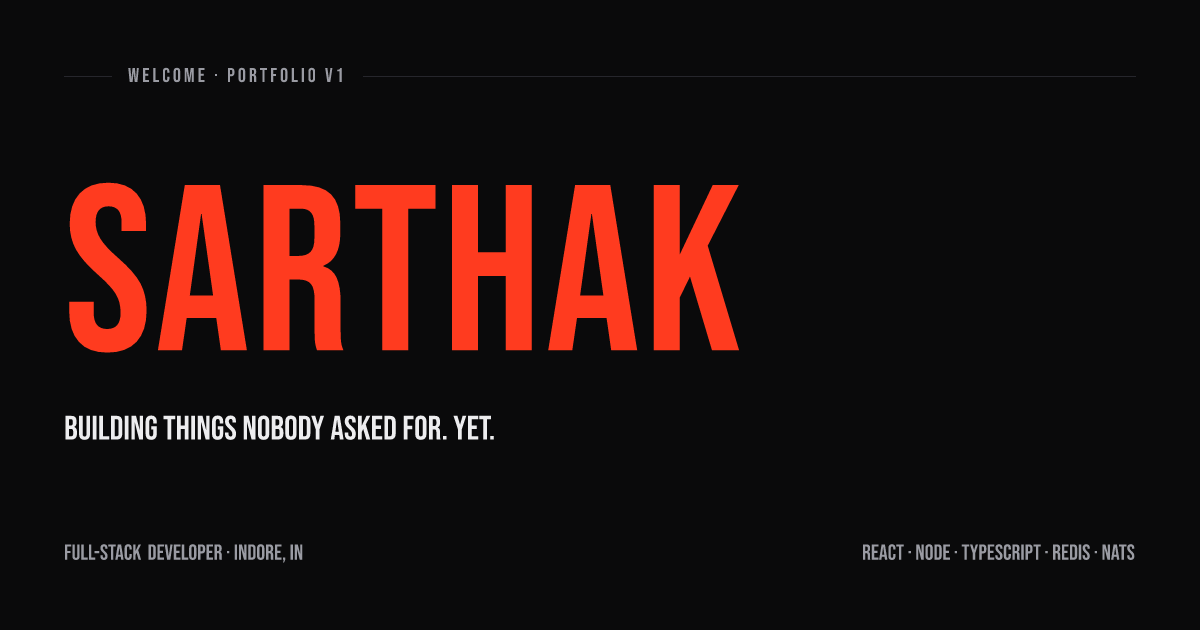
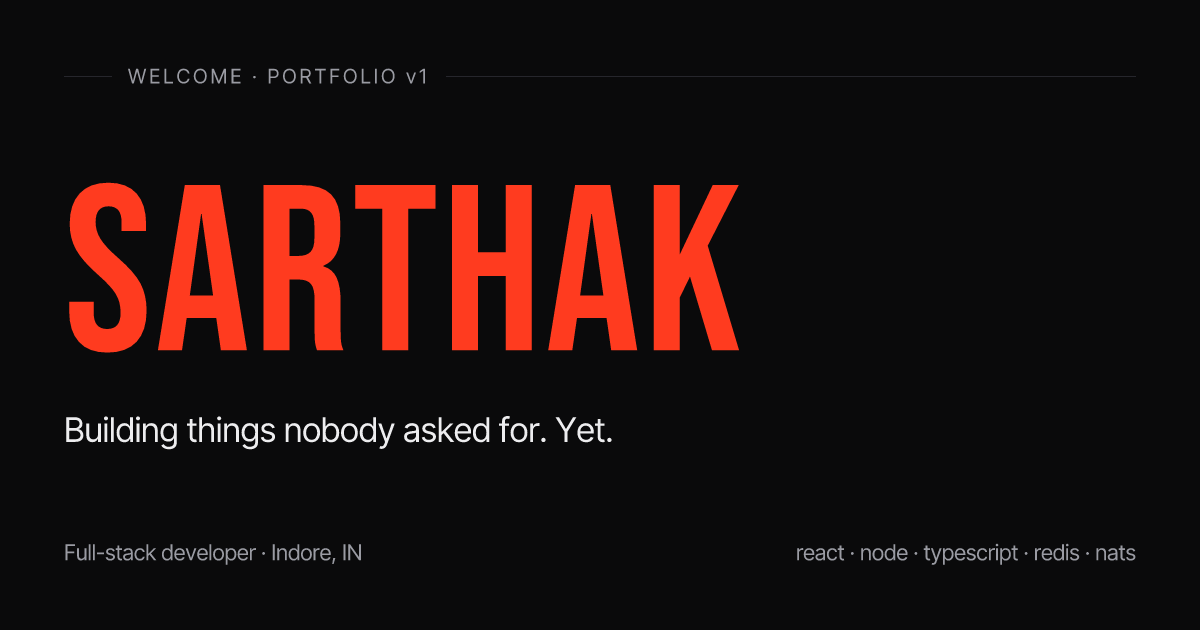
Update portfolio

diff --git a/scripts/banner.ts b/scripts/banner.ts
@@ -1,0 +1,182 @@
+/**
+ * Renders .github/profile/banner.png (1600×560) for the GitHub README, using the same
+ * tokens and fonts as the site. Run: npm run banner
+ */
+import satori from 'satori'
+import { Resvg } from '@resvg/resvg-js'
+import { readFile, writeFile, mkdir } from 'node:fs/promises'
+import { createRequire } from 'node:module'
+import path from 'node:path'
+
+type Node = Parameters<typeof satori>[0]
+const require = createRequire(import.meta.url)
+
+const BG = '#0a0a0b'
+const BG2 = '#111114'
+const LINE = '#26262c'
+const ACCENT = '#ff3b1f'
+const GOLD = '#f5b942'
+const TEXT = '#ededef'
+const MUTED = '#9a9ba3'
+const DIM = '#85868f'
+const OK = '#3ddc84'
+
+const font = (p: string) => readFile(require.resolve(p))
+
+async function main() {
+  const [bebas, inter, mono] = await Promise.all([
+    font('@fontsource/bebas-neue/files/bebas-neue-latin-400-normal.woff'),
+    font('@fontsource/inter-tight/files/inter-tight-latin-400-normal.woff'),
+    font('@fontsource/jetbrains-mono/files/jetbrains-mono-latin-400-normal.woff'),
+  ])
+  const fonts = [
+    { name: 'Bebas Neue', data: bebas, weight: 400 as const, style: 'normal' as const },
+    { name: 'Inter Tight', data: inter, weight: 400 as const, style: 'normal' as const },
+    { name: 'JetBrains Mono', data: mono, weight: 400 as const, style: 'normal' as const },
+  ]
+
+  const line = (k: string, v: string, color = TEXT) => ({
+    type: 'div',
+    props: {
+      style: { display: 'flex', gap: 0, fontSize: 17, lineHeight: 1.7 },
+      children: [
+        { type: 'span', props: { style: { color: k.startsWith('$') ? TEXT : DIM }, children: k } },
+        { type: 'span', props: { style: { color }, children: v } },
+      ],
+    },
+  })
+
+  const svg = await satori(
+    {
+      type: 'div',
+      props: {
+        style: {
+          width: 1600,
+          height: 560,
+          display: 'flex',
+          background: BG,
+          color: TEXT,
+          fontFamily: 'Inter Tight',
+          position: 'relative',
+        },
+        children: [
+          // left: wordmark + tagline
+          {
+            type: 'div',
+            props: {
+              style: { display: 'flex', flexDirection: 'column', justifyContent: 'space-between', padding: '56px 0 56px 72px', width: 960 },
+              children: [
+                {
+                  type: 'div',
+                  props: {
+                    style: { display: 'flex', alignItems: 'center', gap: 16, color: DIM, fontFamily: 'JetBrains Mono', fontSize: 15, letterSpacing: 3 },
+                    children: [
+                      { type: 'div', props: { style: { height: 1, width: 40, background: LINE } } },
+                      { type: 'div', props: { children: 'GITHUB.COM/SARTHA555K' } },
+                      { type: 'div', props: { style: { height: 1, width: 220, background: LINE } } },
+                    ],
+                  },
+                },
+                {
+                  type: 'div',
+                  props: {
+                    style: { display: 'flex', flexDirection: 'column' },
+                    children: [
+                      { type: 'div', props: { style: { fontFamily: 'Bebas Neue', fontSize: 250, lineHeight: 0.86, letterSpacing: 4, color: ACCENT }, children: 'SARTHAK' } },
+                      { type: 'div', props: { style: { marginTop: 22, fontSize: 30, color: TEXT }, children: 'Building things nobody asked for. Yet.' } },
+                    ],
+                  },
+                },
+                {
+                  type: 'div',
+                  props: {
+                    style: { display: 'flex', gap: 28, color: MUTED, fontFamily: 'JetBrains Mono', fontSize: 15 },
+                    children: [
+                      { type: 'div', props: { children: 'react 19' } },
+                      { type: 'div', props: { children: 'typescript' } },
+                      { type: 'div', props: { children: 'vite 6' } },
+                      { type: 'div', props: { children: 'gsap' } },
+                      { type: 'div', props: { children: 'lenis' } },
+                      { type: 'div', props: { children: 'tailwind v4' } },
+                    ],
+                  },
+                },
+              ],
+            },
+          },
+          // right: terminal card
+          {
+            type: 'div',
+            props: {
+              style: {
+                position: 'absolute',
+                right: 72,
+                top: 96,
+                width: 520,
+                display: 'flex',
+                flexDirection: 'column',
+                background: BG2,
+                border: `1px solid ${LINE}`,
+                borderRadius: 14,
+                overflow: 'hidden',
+                fontFamily: 'JetBrains Mono',
+              },
+              children: [
+                {
+                  type: 'div',
+                  props: {
+                    style: { display: 'flex', alignItems: 'center', gap: 8, padding: '12px 16px', borderBottom: `1px solid ${LINE}` },
+                    children: [
+                      { type: 'div', props: { style: { width: 10, height: 10, borderRadius: 5, background: '#3a3a42' } } },
+                      { type: 'div', props: { style: { width: 10, height: 10, borderRadius: 5, background: '#3a3a42' } } },
+                      { type: 'div', props: { style: { width: 10, height: 10, borderRadius: 5, background: '#3a3a42' } } },
+                      { type: 'div', props: { style: { marginLeft: 8, color: DIM, fontSize: 13 }, children: 'zsh' } },
+                    ],
+                  },
+                },
+                {
+                  type: 'div',
+                  props: {
+                    style: { display: 'flex', flexDirection: 'column', padding: '18px 22px 22px' },
+                    children: [
+                      line('$\u00a0', 'whoami'),
+                      line('', 'sarthak', MUTED),
+                      line('$\u00a0', 'sarthak --stack'),
+                      line('', 'react · next · node · ts · redis · nats', MUTED),
+                      line('$\u00a0', 'npm run build'),
+                      line('', '17 tests passed · 159 kB gz · LH 98/100/100/100', OK),
+                      line('$\u00a0', 'open portfolio'),
+                      {
+                        type: 'div',
+                        props: {
+                          style: { display: 'flex', alignItems: 'center', gap: 10, marginTop: 4, fontSize: 17 },
+                          children: [
+                            { type: 'span', props: { style: { color: TEXT }, children: '$\u00a0' } },
+                            { type: 'div', props: { style: { width: 10, height: 20, background: GOLD } } },
+                          ],
+                        },
+                      },
+                    ],
+                  },
+                },
+              ],
+            },
+          },
+          // bottom hairline
+          { type: 'div', props: { style: { position: 'absolute', left: 0, right: 0, bottom: 0, height: 3, background: ACCENT } } },
+        ],
+      },
+    } as unknown as Node,
+    { width: 1600, height: 560, fonts },
+  )
+
+  await mkdir('.github/profile', { recursive: true })
+  const out = path.resolve('.github/profile/banner.png')
+  await writeFile(out, new Resvg(svg, { fitTo: { mode: 'width', value: 1600 } }).render().asPng())
+  console.log('wrote .github/profile/banner.png')
+}
+
+main().catch((e) => {
+  console.error(e)
+  process.exit(1)
+})

diff --git a/src/components/hero/Hero.tsx b/src/components/hero/Hero.tsx
@@ -7,8 +7,8 @@ import { imageExists, useImageExists } from '@/lib/useImageExists'
 
 type Props = { ready: boolean }
 
-const CUTOUT = '/img/hero-cutout.png'
-const CUTOUT_1X = '/img/hero-cutout@1x.png'
+const CUTOUT = '/img/hero-cutout.webp'
+const CUTOUT_1X = '/img/hero-cutout@1x.webp'
 
 export function Hero({ ready }: Props) {
   const root = useRef<HTMLElement>(null)
@@ -31,7 +31,7 @@ export function Hero({ ready }: Props) {
           .to(gradLetters, { backgroundPosition: '100% 50%', duration: 1.2, ease: 'power2.inOut' }, 0.1)
           .add(() => back?.classList.remove('wm-grad'), 1.3)
           .fromTo('.hero-cutout', { opacity: 0, scale: 1.04 }, { opacity: 1, scale: 1, duration: 1.2 }, 0.25)
-          .fromTo('.hero-eyebrow, .hero-meta', { opacity: 0, y: 12 }, { opacity: 1, y: 0, duration: 0.8, stagger: 0.1 }, 0.9)
+          .fromTo('.hero-meta', { opacity: 0, y: 12 }, { opacity: 1, y: 0, duration: 0.8 }, 0.9)
 
         // Parallax + fade across the first viewport.
         const st = gsap.timeline({
@@ -54,14 +54,13 @@ export function Hero({ ready }: Props) {
 
       mm.add(REDUCED, () => {
         gsap.set('.wm-letter', { yPercent: 0 })
-        gsap.set('.hero-cutout, .hero-eyebrow, .hero-meta', { opacity: 1, scale: 1, y: 0 })
+        gsap.set('.hero-cutout, .hero-meta', { opacity: 1, scale: 1, y: 0 })
       })
 
       return () => mm.revert()
     },
     { scope: root, dependencies: [ready] },
   )
-
 
   return (
     <section
@@ -86,8 +85,6 @@ export function Hero({ ready }: Props) {
         Sarthak Patel, full-stack developer in Indore, India
       </h1>
 
-      <p className="hero-eyebrow eyebrow absolute inset-x-0 top-[26%] z-[4] text-center">── Welcome · Portfolio v1 ──</p>
-
       {/* Layer stack: back wordmark (z1) · cutout (z2) · clipped front wordmark (z3).
           Each copy gets its own wrapper because transforms create stacking contexts. */}
       <div className="hero-wordmarks absolute inset-x-0 top-[38%] z-[1] px-[2vw]">
@@ -102,15 +99,15 @@ export function Hero({ ready }: Props) {
           <div
             className="h-full w-[34vw] max-w-[380px] rounded-[40%_40%_18px_18px/22%_22%_18px_18px] bg-bg-3"
             aria-hidden="true"
-            title="Placeholder: drop public/img/hero-cutout.png here"
+            title="Placeholder: drop public/img/hero-cutout.webp here"
           />
         ) : (
           <img
             src={CUTOUT}
             srcSet={imageExists(CUTOUT_1X) ? `${CUTOUT_1X} 1x, ${CUTOUT} 2x` : undefined}
             alt=""
-            width={1200}
-            height={2400}
+            width={651}
+            height={2000}
             fetchPriority="high"
             decoding="async"
             className="h-full w-auto object-contain object-bottom"

diff --git a/scripts/og.ts b/scripts/og.ts
@@ -27,7 +27,7 @@ async function main() {
   const bebas = await font('@fontsource/bebas-neue/files/bebas-neue-latin-400-normal.woff')
   let inter: Buffer | null = null
   try {
-    inter = await font('@fontsource-variable/inter-tight/files/inter-tight-latin-wght-normal.woff')
+    inter = await font('@fontsource/inter-tight/files/inter-tight-latin-400-normal.woff')
   } catch {
     /* fall back to Bebas everywhere */
   }

diff --git a/CONTENT_TODO.md b/CONTENT_TODO.md
@@ -34,23 +34,23 @@ Placeholders render until each file exists.
 
 | Path (under `public/img/`)                     | Used in                        | Spec                                                                            | What it should be                                                                                                                                                                                                                        |
 | ---------------------------------------------- | ------------------------------ | ------------------------------------------------------------------------------- | ---------------------------------------------------------------------------------------------------------------------------------------------------------------------------------------------------------------------------------------- |
-| `hero-cutout.png`                              | Hero, between the letters      | PNG, transparent, full body head-to-shoes, ~2400px tall, ≤ 600 kB after oxipng  | Standing, relaxed, facing camera (slight three-quarter turn fine), hands at sides or one in pocket, dark plain clothing, neutral confident expression, even soft front light, feet visible. Real photo against a plain wall, background removed. |
-| `hero-cutout@1x.png`                           | Hero (1x srcset)               | Same image at 1200px tall                                                        | Export of the above.                                                                                                                                                                                                                     |
-| `about-portrait.webp`                          | About, left column             | WebP 3:4, 1200×1600                                                             | Waist-up, same clothing family, looking slightly off-camera or at a screen, dark background, one warm side light. Real photo, light grading only.                                                                                        |
-| `work/eventbus-services/desktop.webp`          | Work card + case study         | WebP 1600×1000                                                                  | (a) Terminal screenshot of `docker compose up` with both services and NATS logging an event, dark theme; or (b) architecture diagram export at 2× on `#0a0a0b`. Prefer (a).                                                              |
-| `work/moviebook/desktop.webp`                  | Work card + case study         | WebP 1600×1000                                                                  | Seat map with a few seats locked (yellow) and sold (red). `npm run screenshots moviebook`.                                                                                                                                             |
-| `work/moviebook/mobile.webp`                   | Work card + case study         | WebP 780×1688                                                                   | Same screen on mobile.                                                                                                                                                                                                                   |
-| `work/moviebook/detail.webp`                   | Case study (optional)          | WebP 1600×1000                                                                  | Payment / confirmation step.                                                                                                                                                                                                             |
-| `work/resumex/desktop.webp`                    | Work card + case study         | WebP 1600×1000                                                                  | Builder with live preview populated with sample data (not empty).                                                                                                                                                                        |
-| `work/resumex/mobile.webp`                     | Work card + case study         | WebP 780×1688                                                                   | Dashboard on mobile.                                                                                                                                                                                                                     |
-| `work/program-intel/desktop.webp`              | Work card + case study         | WebP 1600×1000                                                                  | Dashboard with filters set and charts populated.                                                                                                                                                                                         |
-| `work/program-intel/mobile.webp`               | Work card + case study         | WebP 780×1688                                                                   | Same on mobile.                                                                                                                                                                                                                          |
-| `work/program-intel/detail.webp`               | Case study (optional)          | WebP 1600×1000                                                                  | Grant-reporting view.                                                                                                                                                                                                                    |
-| `work/ott-desktop/desktop.webp`                | Work card + case study         | WebP 1600×1000                                                                  | Hero carousel + one row of 9:16 cards.                                                                                                                                                                                                   |
-| `work/ott-desktop/mobile.webp`                 | Work card + case study         | WebP 780×1688                                                                   | Same on mobile.                                                                                                                                                                                                                          |
-| `work/ott-desktop/detail.webp`                 | Case study (optional)          | WebP 1600×1000                                                                  | Light theme.                                                                                                                                                                                                                             |
-| `work/crack-ai/desktop.webp`                   | Work card + case study         | WebP 1600×1000                                                                  | Interview-in-progress screen. Needs a deploy first.                                                                                                                                                                                      |
-| `work/crack-ai/mobile.webp`                    | Work card + case study         | WebP 780×1688                                                                   | Session review on mobile.                                                                                                                                                                                                                |
+| `hero-cutout.webp`                             | Hero, between the letters      | WebP with alpha, full body head-to-shoes, 2000px tall                            | **Done 2026-09-09.** Generated from the outdoor photo via GPT image edit (charcoal overshirt, black tee, dark jeans). Source was 941×1672, upscaled with lanczos to 2000 tall; exported as WebP with alpha (PNG was 488 kB and made the image the largest paint on mobile); a real photo at native resolution would still be sharper. Grey-wall version kept at `.github/profile/dist/hero-source-greywall.png` in case the edges need redoing. |
+| `hero-cutout@1x.webp`                          | Hero (1x srcset)               | Same image at 1200px tall                                                        | **Done.**                                                                                                                                                                                                                                |
+| `about-portrait.webp`                          | About, left column             | WebP 3:4, 1200×1600                                                             | **Done 2026-09-09.** GPT edit of the same photo: dark background, warm side light, looking off-camera.                                                                                                                                    |
+| `work/eventbus-services/desktop.webp`          | Work card + case study         | WebP 1600×1000                                                                  | **Done (option b) 2026-09-09.** Architecture diagram exported from the site's System section on `#0a0a0b`. Replace with a real `docker compose up` terminal screenshot when convenient; option (a) is still preferred. |
+| `work/moviebook/desktop.webp`                  | Work card + case study         | WebP 1600×1000                                                                  | **Done 2026-09-09.** The live app is a mobile-width column; at 1600px the seat page renders left-aligned and tiny, so this is the seat map (E5 to E7 selected, occupied seats grey) composed centred on the app's own background, which is how the home screen renders on desktop. |
+| `work/moviebook/mobile.webp`                   | Work card + case study         | WebP 780×1688                                                                   | **Done.** Seat map, PVR ICON 07:30 PM, three seats selected. |
+| `work/moviebook/detail.webp`                   | Case study (optional)          | WebP 1600×1000                                                                  | Payment / confirmation step. Needs a logged-in session to proceed past seat selection; not captured. |
+| `work/resumex/desktop.webp`                    | Work card + case study         | WebP 1600×1000                                                                  | **Placeholder-quality, replace.** Currently the public landing page. The builder is behind email/password login; log in in Chrome and the capture can be redone in a minute. The landing page has a broken brand-logo row and template testimonial copy worth fixing in the app itself. |
+| `work/resumex/mobile.webp`                     | Work card + case study         | WebP 780×1688                                                                   | **Placeholder-quality, replace.** Landing page on mobile for now; the dashboard needs login. |
+| `work/program-intel/desktop.webp`              | Work card + case study         | WebP 1600×1000                                                                  | **Done 2026-09-09.** Program Review dashboard, September 2025, filters visible, trend chart and risk engine populated. |
+| `work/program-intel/mobile.webp`               | Work card + case study         | WebP 780×1688                                                                   | **Done.** |
+| `work/program-intel/detail.webp`               | Case study (optional)          | WebP 1600×1000                                                                  | **Done.** Grant Reporting Assistant view. |
+| `work/ott-desktop/desktop.webp`                | Work card + case study         | WebP 1600×1000                                                                  | **Done 2026-09-09.** Hero plus the Top 10 row of 9:16 cards, dark theme. |
+| `work/ott-desktop/mobile.webp`                 | Work card + case study         | WebP 780×1688                                                                   | **Done.** |
+| `work/ott-desktop/detail.webp`                 | Case study (optional)          | WebP 1600×1000                                                                  | **Done.** Light theme. The hero image washes out in light mode in the app itself; worth a look. |
+| `work/crack-ai/desktop.webp`                   | Work card + case study         | WebP 1600×1000                                                                  | Interview-in-progress screen. Needs a deploy first; not captured. |
+| `work/crack-ai/mobile.webp`                    | Work card + case study         | WebP 780×1688                                                                   | Session review on mobile. Needs a deploy first; not captured. |
 | `timeline/jec.webp`                            | Timeline row (optional)        | WebP 16:9, 960×540                                                              | JEC campus or lecture hall, graded dark and warm.                                                                                                                                                                                        |
 | `timeline/first-fullstack.webp`                | Timeline row (optional)        | WebP 16:9, 960×540                                                              | Desk at night, laptop open, one warm lamp. No readable text, no faces.                                                                                                                                                                   |
 | `timeline/alphawizz.webp`                      | Timeline row (optional)        | WebP 16:9, 960×540                                                              | Office/desk photo if available; otherwise omit, the row renders without it.                                                                                                                                                             |
@@ -70,6 +70,7 @@ grain texture, gradient placeholders, DeviceFrame chrome, all icons.
 | MotionPathPlugin for packets           | GSAP MotionPathPlugin                        | Path followed via `getPointAtLength` in a plain tween                                  | Same visual, 8 kB gzipped less JS.                                                                     |
 | Code highlighting                      | shiki at build or pre-highlighted strings    | Pre-highlighted HTML strings in `data/work.ts` with 7 token classes                    | Zero runtime cost; snippets are short.                                                                 |
 | `now.txt` verify flags                 | —                                            | `# verify` shown inline on the two VERIFY rows                                          | Visible reminder until the facts are confirmed. Remove `verify: true` in `About.tsx` rows when done.   |
+| Hero eyebrow                           | `── WELCOME · PORTFOLIO v1 ──` above the wordmark | Removed                                                                                | Requested 2026-09-09 once the real cutout was in; it overlapped his neck and added nothing.            |
 | Missing-image detection                | `onError` swap at runtime                    | Build-time manifest of `public/img` (`virtual:image-manifest`)                          | No request, no console 404, no placeholder flash; same answer on server and client. Dev reloads on add. |
 | App chunk preload                      | —                                            | Not preloaded; loaded one frame after first paint                                       | Preloading it made Lighthouse chain first paint to the bundle (92 → 98–99 mobile perf locally).        |
 

diff --git a/README.md b/README.md
@@ -1,5 +1,4 @@
-🌐 [View Live Portfolio](https://sarthakportfolio-one.vercel.app/)
-
+# sarthak-portfolio
 
 Personal site for Sarthak Patel. Single-page, scroll-driven, dark. Two live demos
 (Redis-style seat locking, NATS-style event bus) run entirely in the browser.
@@ -43,7 +42,7 @@ requested that is not there; the dev server reloads when a file is added or remo
 
 | Path                                            | Spec                                     |
 | ----------------------------------------------- | ---------------------------------------- |
-| `hero-cutout.png` and `hero-cutout@1x.png`      | transparent PNG, ~2400px / 1200px tall   |
+| `hero-cutout.webp` and `hero-cutout@1x.webp`    | WebP with alpha, 2000px / 1200px tall    |
 | `about-portrait.webp`                           | WebP 3:4, 1200×1600                      |
 | `work/<slug>/desktop.webp`                      | WebP 1600×1000                           |
 | `work/<slug>/mobile.webp`                       | WebP 780×1688 (390×844 @2x), optional    |
